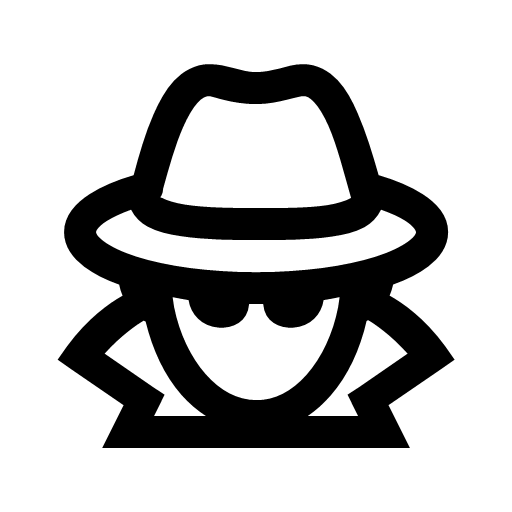
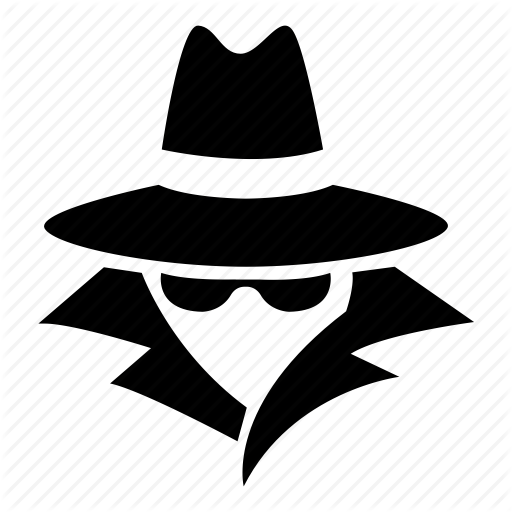
fixins

diff --git a/src/components/MentorBoard.js b/src/components/MentorBoard.js
@@ -118,10 +118,10 @@ const MentorBoard = ({
   return (
     <Board style={teamTurn !== mentorColor ? { pointerEvents: "none" } : {}}>
       <div>
-        {board.map((row, ri) => {
+        {board.map((row, rowIdx) => {
           return (
-            <Row key={ri}>
-              {row.map((card) => {
+            <Row key={rowIdx}>
+              {row.map((card, cardIdx) => {
                 if (!card.revealed) {
                   return (
                     <Card key={card.id} style={{ backgroundColor: card.color }}>
@@ -135,6 +135,7 @@ const MentorBoard = ({
                       color={card.color}
                       revealed={card.revealed}
                       word={card.word}
+                      coor={rowIdx+cardIdx}
                     />
                   );
                 }
@@ -159,7 +160,7 @@ const MentorBoard = ({
             value={formValues.wordNum}
             name="wordNum"
           />
-          <button type="submit">Send</button>
+          <button disabled={formValues.wordNum === 0 || formValues.clue.trim() === ""} type="submit">Send</button>
         </Control>
         <GameMoves>
           <p style={{ color: teamTurn, fontWeight: "bold" }}>

diff --git a/public/index.html b/public/index.html
@@ -2,14 +2,14 @@
 <html lang="en">
   <head>
     <meta charset="utf-8" />
-    <link rel="icon" href="%PUBLIC_URL%/favicon.ico" />
+    <link rel="icon" href="%PUBLIC_URL%/favicon.png" />
     <meta name="viewport" content="width=device-width, initial-scale=1" />
     <meta name="theme-color" content="#000000" />
     <meta
       name="description"
       content="Web site created using create-react-app"
     />
-    <link rel="apple-touch-icon" href="%PUBLIC_URL%/favicon.ico" />
+    <link rel="apple-touch-icon" href="%PUBLIC_URL%/favicon.png" />
     <!--
       manifest.json provides metadata used when your web app is installed on a
       user's mobile device or desktop. See https://developers.google.com/web/fundamentals/web-app-manifest/

diff --git a/src/components/GameMenu.js b/src/components/GameMenu.js
@@ -100,7 +100,7 @@ const GameMenu = ({
         <GamePickSection>
           <h4>הצטרף למשחק</h4>
           <form onSubmit={handleSubmitFormId}>
-            <button type="submit">הצטרף</button>
+            <button disabled={joinGameId.trim() === ""} type="submit">הצטרף</button>
             <input onChange={handleInputId} type="text" />
           </form>
         </GamePickSection>
